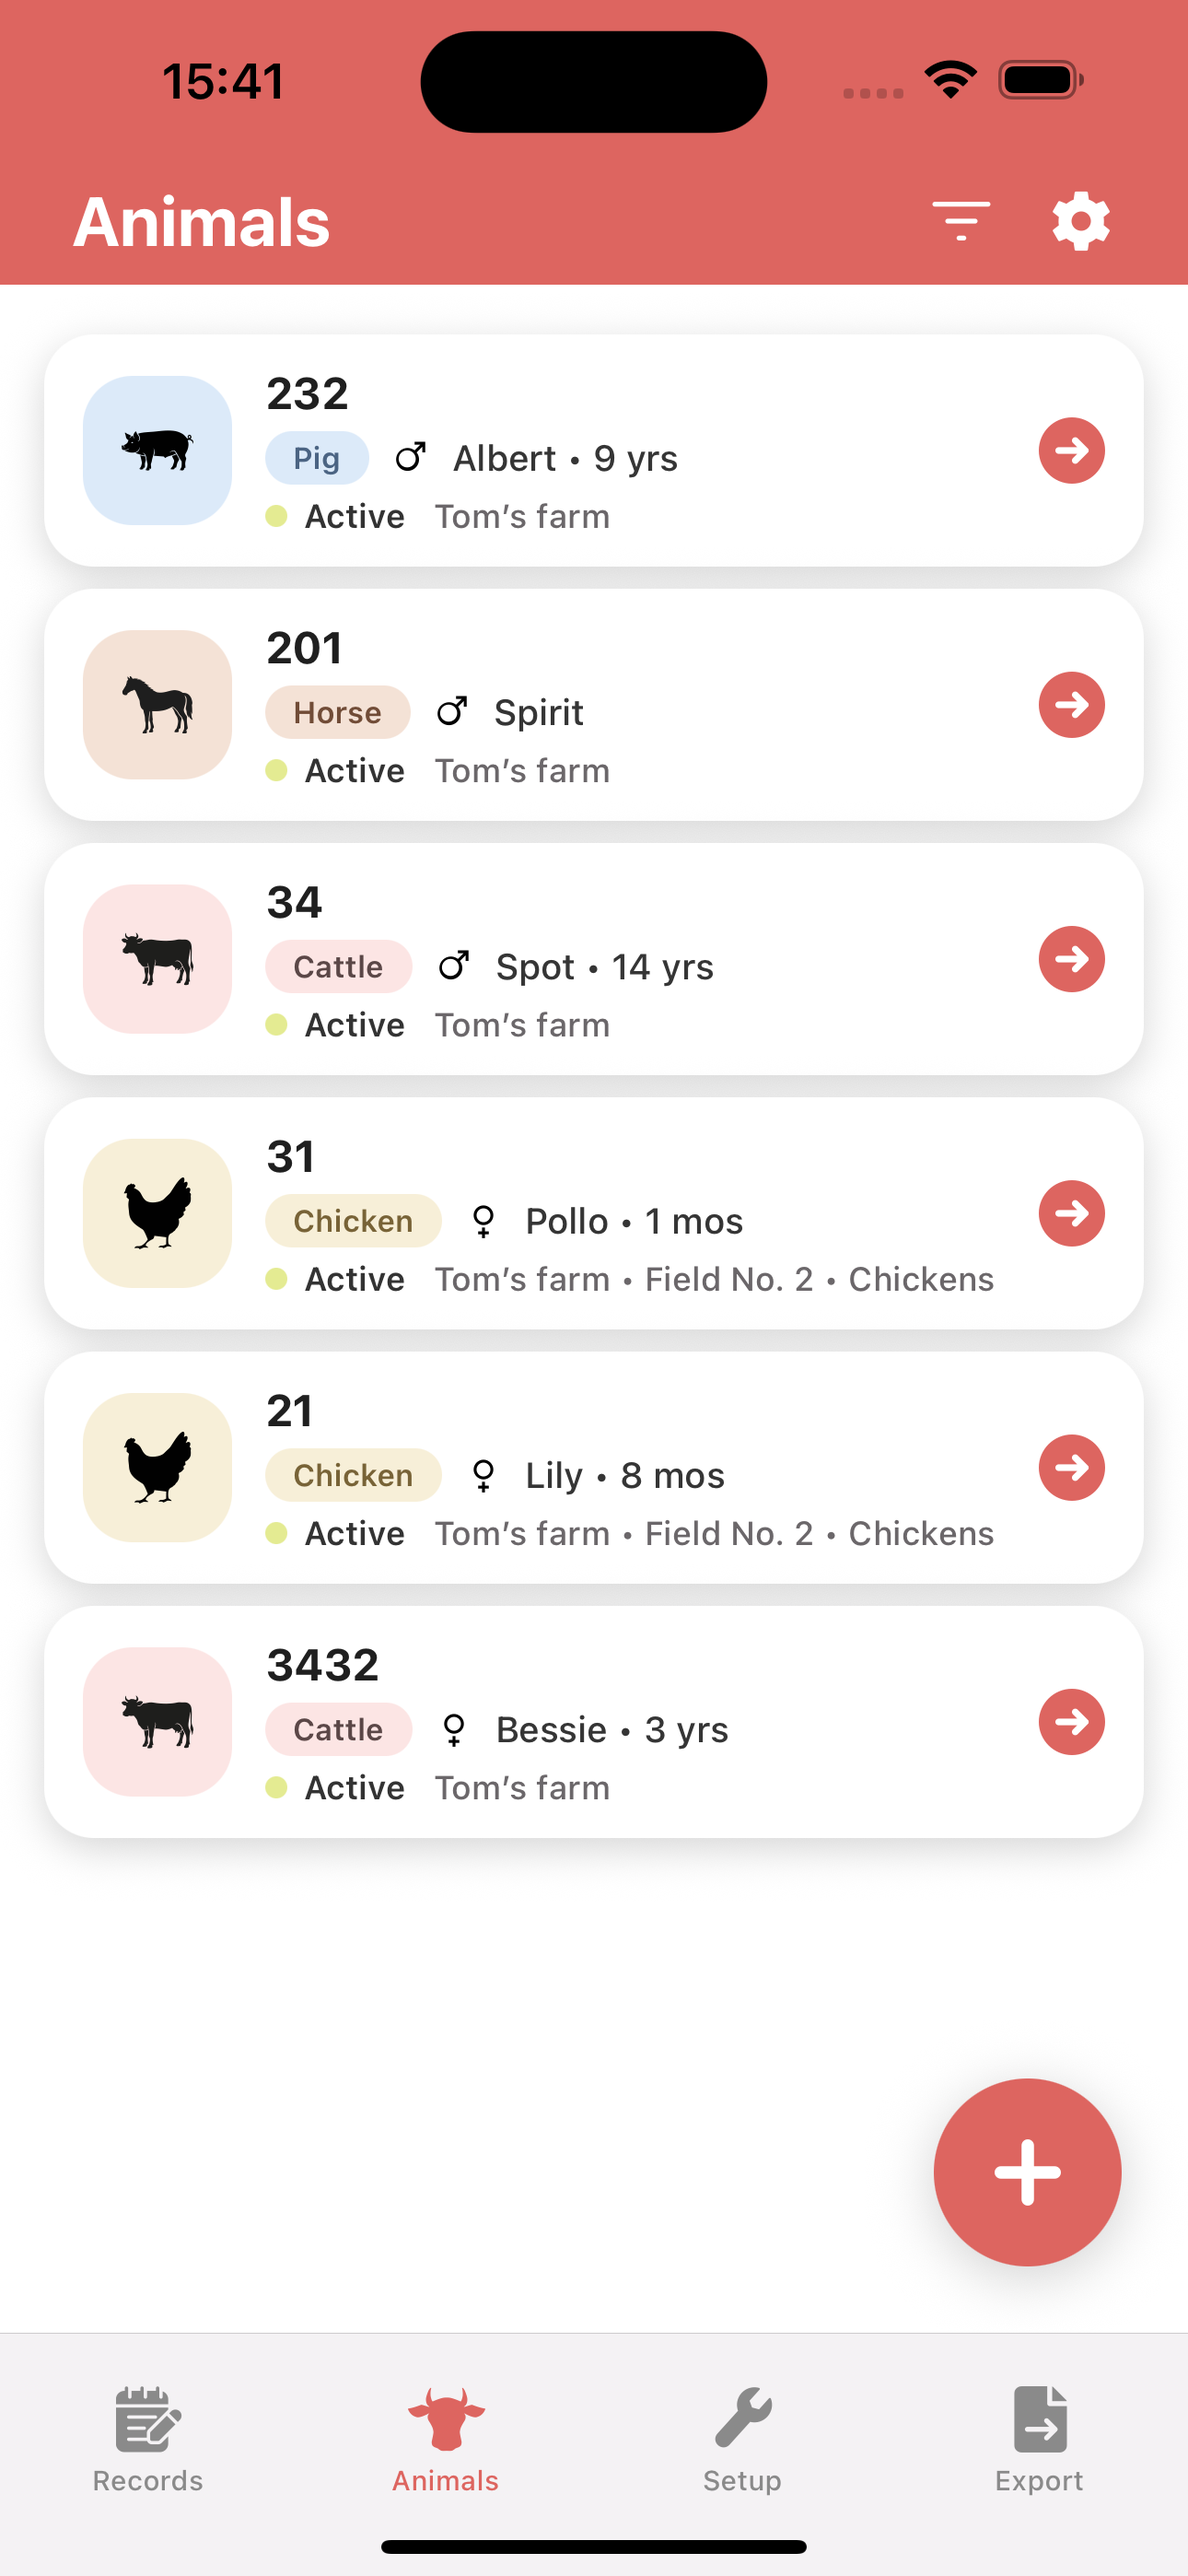
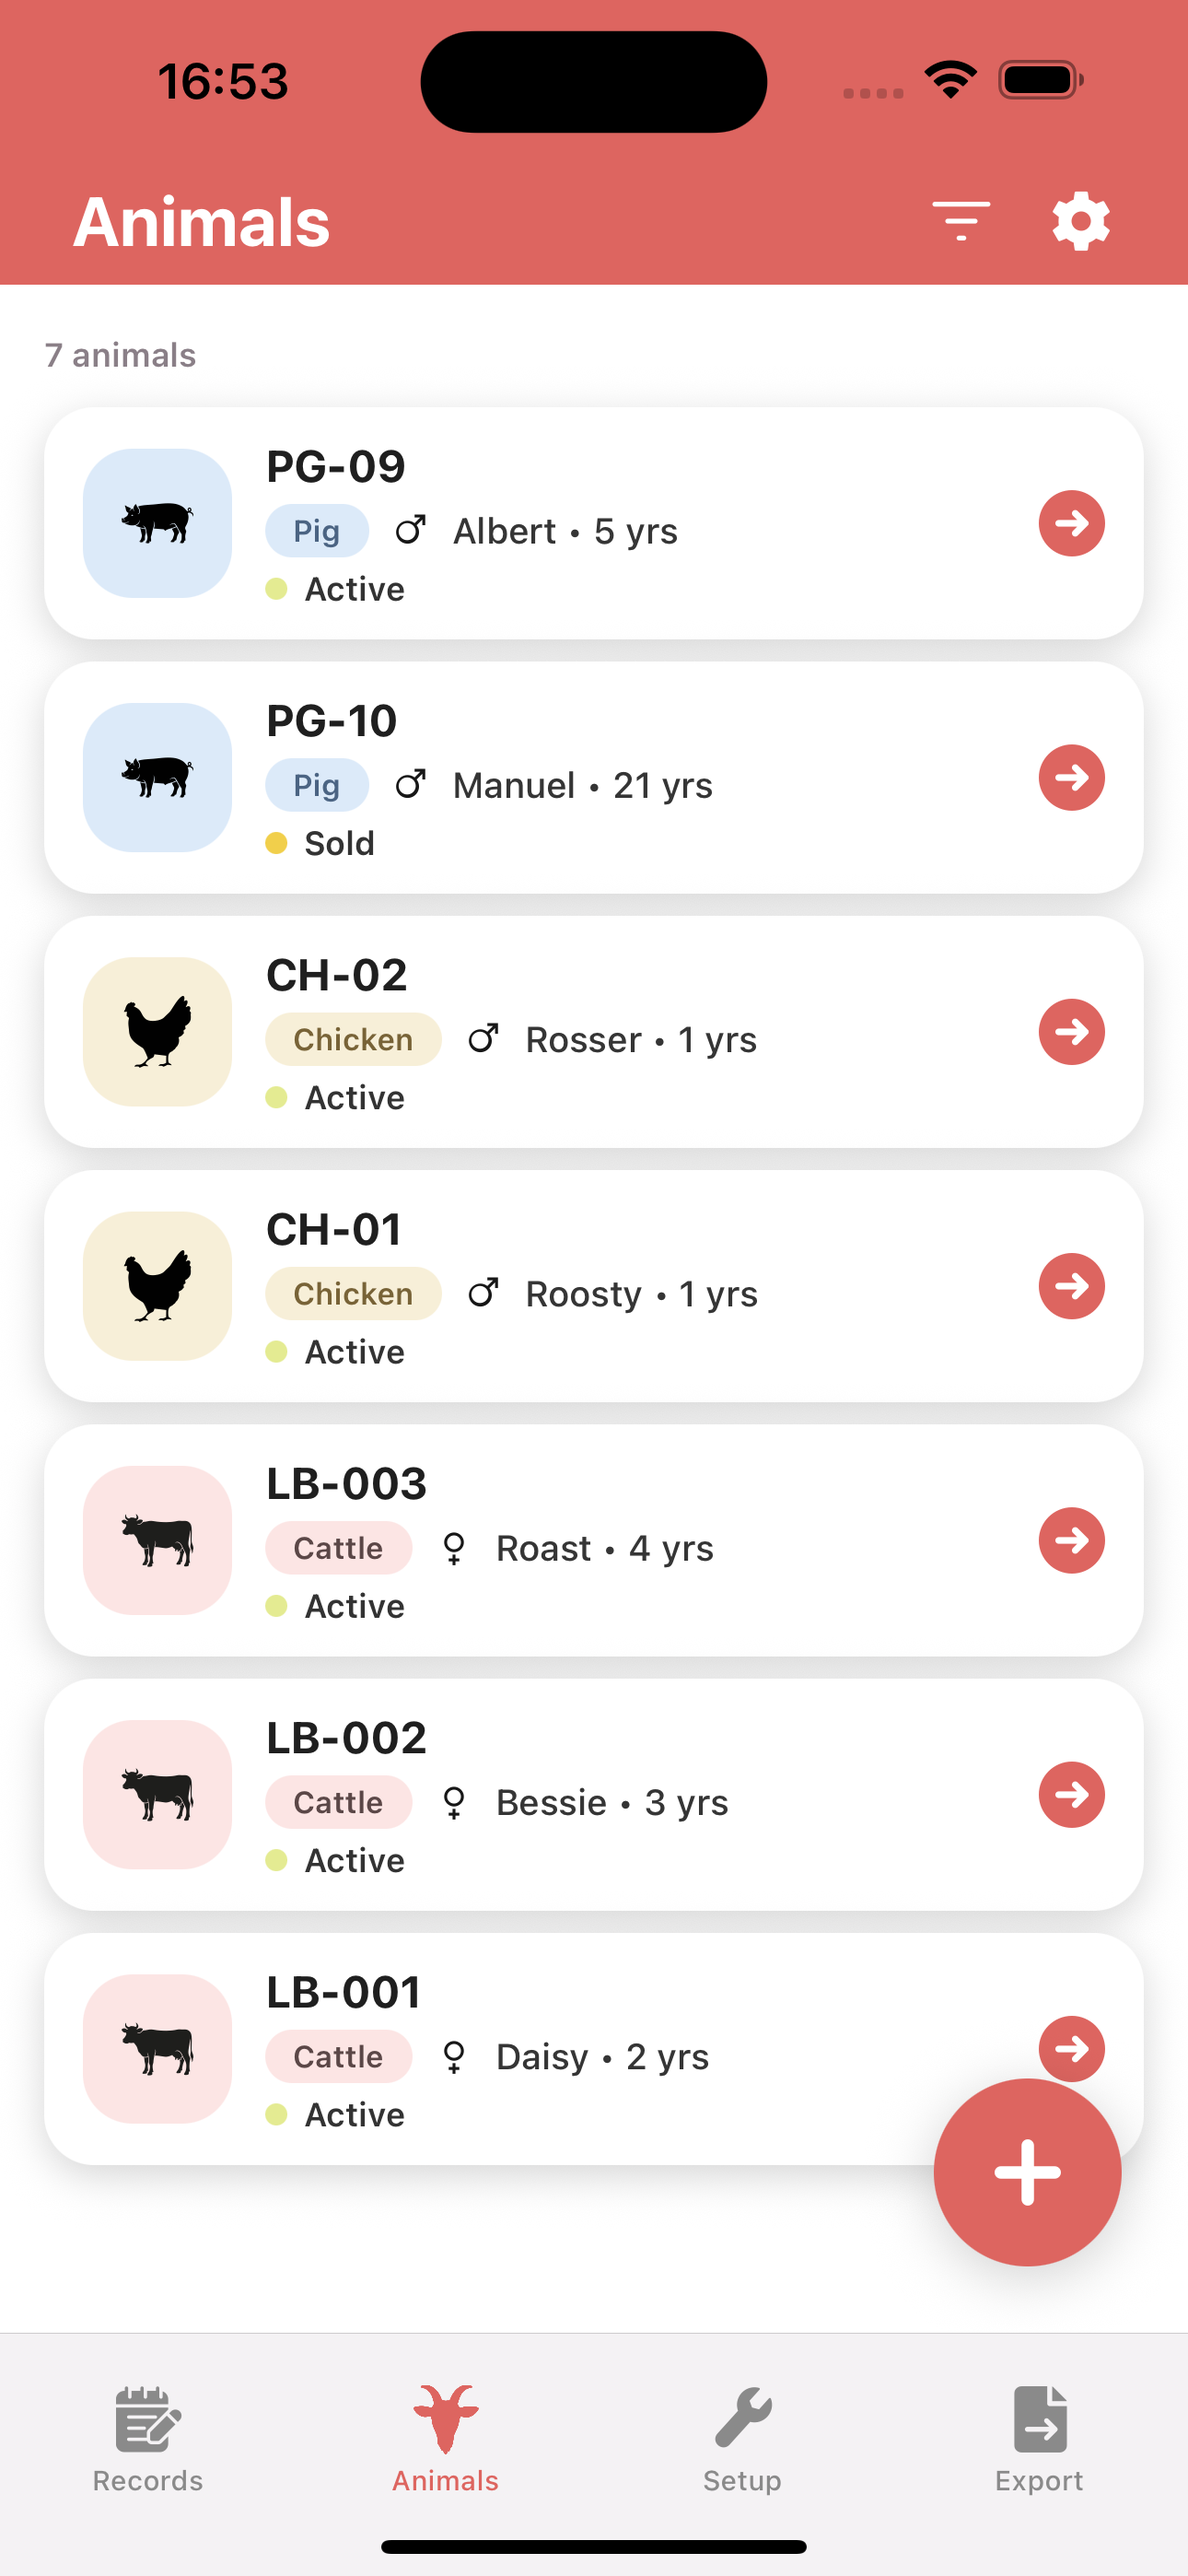
Update Animal Records page screenshot

diff --git a/docs/index.html b/docs/index.html
@@ -81,7 +81,7 @@
           </div>
           <figure class="phone-placeholder feature-story-phone">
             <div class="phone-top"></div>
-            <img class="phone-shot" src="./images/screenshots/add-animal.png" alt="Add Animal screen in LivestockBook" loading="lazy" />
+            <img class="phone-shot" src="./images/screenshots/animals-current.png" alt="Animal page in LivestockBook" loading="lazy" />
           </figure>
         </article>
 
